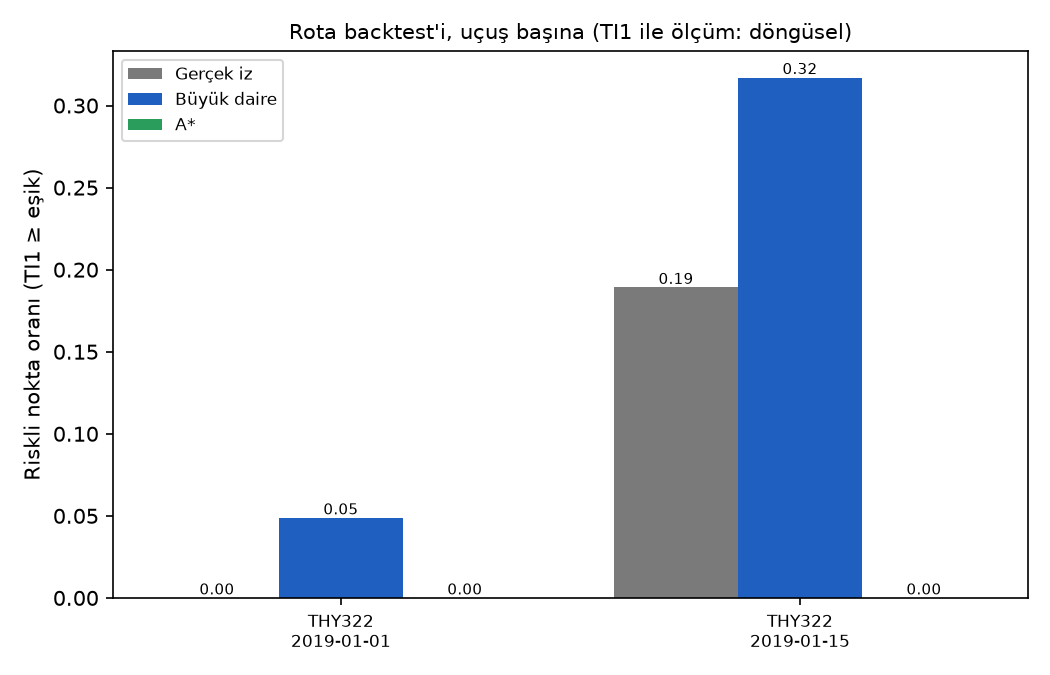
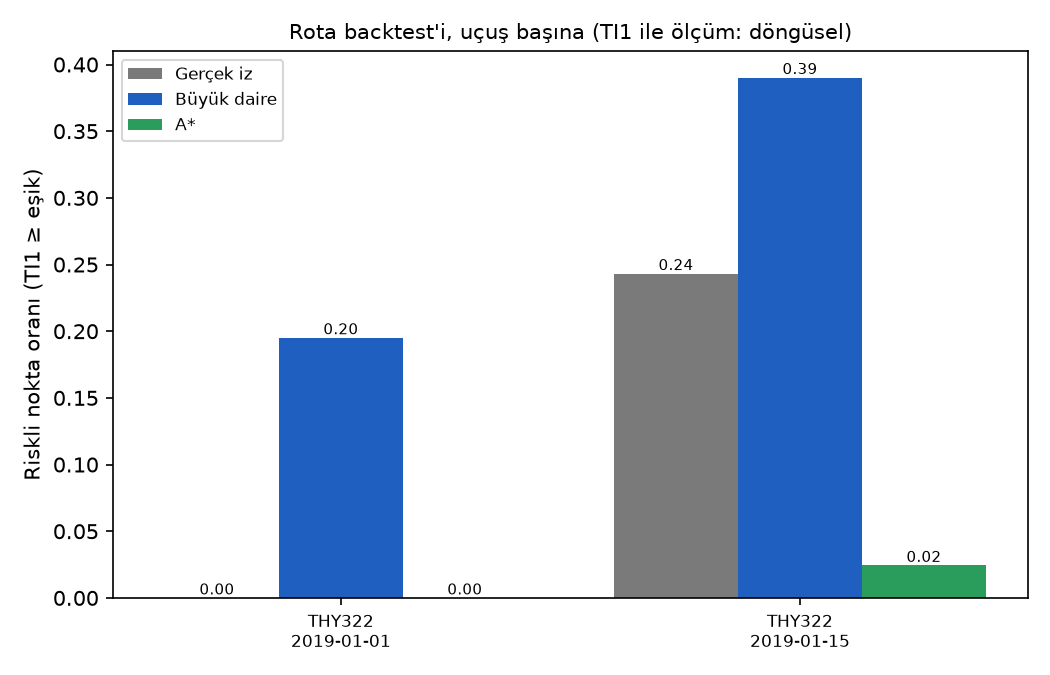
Ön paket 7e-7 eşiğiyle yeniden; belgeler, demo ekranları ve güvenilirlik notu güncel
- docs/sonuclar/2026-10-07: commit d7858e8, esik_taramasi.bir_se, backtest yeni eşikle
- SISTEM_KARTI/SONUCLAR: eşik kararı (1-SE), rota süresi (şarjda 0,03–0,45 sn) ve nedeni
- Sunum, poster, demo senaryosu, KATKILAR, SINIRLAMALAR sayıları paketten
- docs/sunum/ekranlar yeniden çekildi (FL350 → FL370, 214 NM → 16 NM)

diff --git a/docs/sunum/poster.html b/docs/sunum/poster.html
@@ -117,7 +117,7 @@ footer { border-top: 3px solid var(--murekkep); padding-top: 12px; font-size: 12
 
     <figure class="genis">
       <img src="ekranlar/02_simulasyon_turbulanstan_kacinma.jpg" alt="Rota simülasyonu: büyük daire ve türbülanstan kaçınan optimize rota, sonuç tablosu">
-      <figcaption><b>İstanbul → Doğu Anadolu, FL360, 15.01.2019 20:00 UTC (ERA5).</b> Büyük daire rotasında ~198 NM / 23 dk riskli bölüm (kırmızı); A* en çok 86 NM yanal sapmayla hepsinden kaçındı. Bedel: ~+6 dk, +%7,7 seyir yakıtı. Ekran ağsız demo paketinden.</figcaption>
+      <figcaption><b>İstanbul → Doğu Anadolu, FL350, 15.01.2019 20:00 UTC (ERA5).</b> Büyük daire rotasında ~214 NM / 26 dk riskli bölüm (kırmızı). Yanal sapmalar kısıtlı sahaya girdiği için sistem FL370'e tırmanmayı öneriyor; riskli bölüm ~16 NM / 2 dk'ya iniyor ve ekranda dürüstçe kalıyor. Bedel: %0,8 yakıt. Risk eşiği 7e-7 (veriden seçildi).</figcaption>
     </figure>
 
     <section>
@@ -150,10 +150,10 @@ footer { border-top: 3px solid var(--murekkep); padding-top: 12px; font-size: 12
     <section>
       <h2><span class="fl">05</span>Doğruluk</h2>
       <ul>
-        <li><strong>TI1 tek başına sınırlı:</strong> seyir irtifasındaki 7.815 PIREP'te ROC-AUC 0,680 [0,662–0,697]; altın test günlerinde config eşiğinde yakalama 0,448, yanlış alarm 0,201. PUE502 uçuşunda aktif TURB SIGMET'i TI1 yakalamadı. Güvenlik garantisi SIGMET sert kısıtından gelir.</li>
+        <li><strong>TI1 tek başına sınırlı:</strong> seyir irtifasındaki 7.815 PIREP'te ROC-AUC 0,680 [0,662–0,697]; altın test günlerinde veriden seçilen 7e-7 eşiğinde yakalama 0,502, yanlış alarm 0,252. PUE502 uçuşunda aktif TURB SIGMET'i TI1 yakalamadı. Güvenlik garantisi SIGMET sert kısıtından gelir.</li>
         <li><strong>ML (ön sonuç):</strong> altın test günlerinde model 0,681 [0,646–0,716], TI1'e göre +0,008 [−0,006; +0,022]: kapı geçilmedi. Birleşik EDR TI1'i küçük ama anlamlı farkla geçiyor (+0,014 [+0,007; +0,020]).</li>
         <li><strong>MADIS ölçülen EDR (6 gün, yalnız hafif):</strong> model 0,734, TI1 0,706; PR-AUC 0,092 / 0,091 (taban oran 0,030).</li>
-        <li><strong>Backtest (THY322, ERA5):</strong> riskli nokta oranı gerçek / büyük daire / A*: 15.01.2019'da 0,19 / 0,32 / 0,00. Ölçüm döngüseldir: A* TI1'i düşürür, başarı TI1 ile ölçülür.</li>
+        <li><strong>Backtest (THY322, ERA5):</strong> riskli nokta oranı gerçek / büyük daire / A*: 15.01.2019'da 0,24 / 0,39 / 0,02. Ölçüm döngüseldir: A* TI1'i düşürür, başarı TI1 ile ölçülür.</li>
       </ul>
       <p style="font-size:.85em; opacity:.75">Sayılar: docs/sonuclar/2026-10-07/SAYILAR.md (ön paket; 18 Ekim'de nihai). Aralıklar gün bazlı bootstrap %95 GA.</p>
     </section>

diff --git a/src/turbulans_radar/fizik/turbulans_indeksleri.py b/src/turbulans_radar/fizik/turbulans_indeksleri.py
@@ -137,7 +137,7 @@ def ti1_indeksi_hesapla(vws, deformasyon):
 TI1_GUVENILIRLIK_NOTU = (
     "TI1 fiziksel göstergesi, gerçek türbülans olaylarını TEK BAŞINA güvenilir şekilde ayırt ettiği bağımsız "
     "olarak KANITLANMAMIŞTIR (seyir irtifasındaki 7815 PIREP'te [80 gün] ROC-AUC 0.68, altın test "
-    "günlerinde 0.67 [%95 GA 0.64-0.70]; config eşiğinde altın günlerde yakalama 0.45, yanlış alarm 0.20; "
+    "günlerinde 0.67 [%95 GA 0.64-0.70]; risk eşiğinde altın günlerde yakalama 0.50, yanlış alarm 0.25; "
     "gerçek bir uçuşta [PUE502] aktif SIGMET'in işaret ettiği türbülansı TI1 hiç "
     "yakalamadı). Bugün güvenlik garantisi TI1'den değil SIGMET sert kısıtından "
     "gelir; TI1 yalnızca ek/yumuşak bir gösterge olarak değerlendirilmelidir. Kapsam yalnızca açık hava "

diff --git a/docs/SISTEM_KARTI.md b/docs/SISTEM_KARTI.md
@@ -35,12 +35,14 @@ trafikle varsayımsal minima karşılaştırması yalnızca gösterge olarak var
   `SIGMET_YAYIN_UFKU_SAAT`), uçuşun bu ufkun ötesindeki kısmında "aktif SIGMET
   yok" sonucu güvence değildir. Yanıt bu durumda `sigmet_ufuk_disi` uyarısı verir.
 - Kalkıştan önceki son saatlerde yeniden hesaplanmalıdır.
-- Hesaplama süresi, veri hazırken rota başına 0,08–1,36 sn'dir (sıcak medyan; A*
-  araması 0,31–0,40 sn). Ölçüm `turbulans-performans rota` ile yapıldı ve
-  `docs/sonuclar/2026-10-07/rota_performansi.md` dosyasında. Dizüstü pildeyken ölçüldü;
-  aynı gün daha önceki bir ölçüm 0,02–0,86 sn verdi. 2 Ekim ölçümü 0,02–0,27 sn idi
-  (tarihçe, `docs/hoca_geri_bildirim_analizi.md` §3). Artışın nedeni (yarım daire
-  kuralıyla çok seviyeli arama, FRA kontrolleri ya da güç durumu) ayrıca incelenmedi.
+- Hesaplama süresi, veri hazırken ve dizüstü şarjdayken rota başına 0,03–0,45 sn'dir
+  (sıcak medyan; A* aramalarının toplamı 0,09–0,14 sn). Ölçüm `turbulans-performans rota`
+  ile yapıldı: `docs/sonuclar/2026-10-07/rota_performansi.md`. Pilde süreler 2–3 kat
+  uzuyor. 2 Ekim ölçümü 0,02–0,27 sn idi (tarihçe). Fark tasarımdan gelir: Pareto
+  seçenekleri için A* her rotada 1 yerine 4 kez (bir yanal, üç ceza düzeyi) çalışır ve
+  yarım daire kuralı seviye adayları ekler. 8 Ekim'de rüzgâr okuması vektörleştirildi ve
+  A* çalıştırmaları aynı ızgaranın TI1'ini paylaşır oldu; sonuç birebir aynı, süre
+  yaklaşık %30 kısaldı.
 - Uçuş sırasında yeniden hesaplama mekanizması gösterim amaçlıdır.
 
 Sistem **sertifikalı değildir**. Herhangi bir EFB onayı yoktur ve
@@ -65,7 +67,10 @@ gerçek bir uçuşta tek bilgi kaynağı olarak kullanılamaz.
 
 - **Türbülans göstergeleri:** Ellrod TI1 (dikey rüzgar kayması × yatay
   deformasyon) ve bulk Richardson sayısı. Bir nokta, TI1 değeri
-  `TI1_ESIK_ORTA_SIDDETLI` (8e-7 s⁻²) eşiğini aşarsa "riskli" sayılır.
+  `TI1_ESIK_ORTA_SIDDETLI` (7e-7 s⁻²) eşiğini aşarsa "riskli" sayılır. Eşik 8 Ekim'de
+  veriden seçildi: altın test günleri dışındaki 64 günde Peirce'i en yüksek eşiğin
+  (5,3e-7) bir standart hatası içindeki en tutucu eşik (1-SE kuralı, 7,06e-7). Önceki
+  değer 8e-7 literatürden kaba bir başlangıçtı ve bu bandın dışındaydı.
 - **Rota adayları:**
   - A* ile yanal sapma: büyük daire etrafında 41 ara nokta; her bacağın büyük
     daire yönüne göre açısı en fazla 30°, toplam sapma en fazla 400 km, ızgara
@@ -149,7 +154,7 @@ gerçek bir uçuşta tek bilgi kaynağı olarak kullanılamaz.
   içi sayılır ve kenar değerini alır.
 - Seyir irtifasındaki 7.815 PIREP'te (80 gün) TI1'in tek başına ayırt
   ediciliği orta düzeydedir: ROC-AUC 0,680 [0,662–0,697]. Altın test günlerinde
-  0,673 [0,639–0,704]; `TI1_ESIK_ORTA_SIDDETLI`'de (8e-7) POD 0,448, POFD 0,201.
+  0,673 [0,639–0,704]; `TI1_ESIK_ORTA_SIDDETLI`'de (7e-7) POD 0,502, POFD 0,252.
   Eğitim günlerinde Peirce'i en büyüten eşik 5,3e-7'dir; altın günlerde POD 0,605,
   POFD 0,349. Sayılar `docs/sonuclar/2026-10-07/SAYILAR.md` ön paketinden alındı.
   Fizik düzeltmesinden önce 0,64'tü (5 Ekim, tarihçe); eski 0,44 değeri 300-400 feet'teki
@@ -298,8 +303,8 @@ gerçek bir uçuşta tek bilgi kaynağı olarak kullanılamaz.
   güvenilirlik ve backtest şekilleri (`turbulans-ml-degerlendirme --cikti`). Şu an
   7 Ekim ön paketi geçerlidir; 18 Ekim veri dondurmasında nihai paket üretilecek.
 - **Backtest (ERA5):** Veritabanındaki iki uçuşta riskli nokta oranı
-  (gerçek / büyük daire / A*): THY322 1 Ocak 2019 0,00 / 0,05 / 0,00; THY322 15 Ocak
-  2019 0,19 / 0,32 / 0,00 (`SAYILAR.md`, `backtest_ucus_basina.png`). Bu ölçüm
+  (gerçek / büyük daire / A*): THY322 1 Ocak 2019 0,00 / 0,20 / 0,00; THY322 15 Ocak
+  2019 0,24 / 0,39 / 0,02 (`SAYILAR.md`, `backtest_ucus_basina.png`; 7e-7 eşiğiyle). Bu ölçüm
   döngüseldir (A* TI1'i düşürür, başarı TI1 ile ölçülür); bu uçuşlar için bağımsız
   kanıt kaynağı yoktur. Önceki "üç uçuşta ortalama 0,28" ölçümü (THY72C, THY606 dahil)
   tarihçedir; o uçuşlar bugünkü veritabanında yok.

diff --git a/docs/sunum/DEMO_SENARYOSU.md b/docs/sunum/DEMO_SENARYOSU.md
@@ -64,8 +64,8 @@ en az bir kez söylenmelidir.
 | 1 | 0:30 | Terminal | `docker compose ps` (db, api, worker sağlıklı); Wi-Fi kapalı | "Sistem dizüstünde, internet bağlantısı yok. Veri, depoyla gelen gerçek bir uçuş ve gerçek ERA5 dilimi." |
 | 2 | 1:30 | 3B harita | Uçuş `THY322`, tarih `2019-01-15`, **Yükle**. Zaman kaydırıcısını baştan sona sürükleyin | "OpenSky'dan alınmış 1614 gerçek ADS-B noktası. Her nokta, uçağın o anki barometrik irtifasına karşılık gelen basınç seviyesinde ERA5 rüzgarıyla eşleşti ve Ellrod TI1 hesaplandı. Tırmanışın alt kısmı 150–350 hPa dışında kaldığı için 1614 noktanın 720'si hesaplandı, gerisi 'veri yok': sistem kapsamadığı yeri tahmin etmiyor. İzdeki ~1 saatlik boşlukta OpenSky'da kayıt yok; sistem bu boşluğu doldurmuyor." |
 | 3 | 0:30 | 3B harita, sol panel | Model paneli ve lejanttaki TI1 notunu gösterin | "TI1'in tek başına güvenilirliği kanıtlanmadı: seyir irtifasındaki 7.815 PIREP'te ROC-AUC 0,68. Bu not ekranda her zaman duruyor." |
-| 4 | 1:30 | Rota simülasyonu | 41.0, 29.0 → 40.5, 43.5; 35000 ft (doğu yönü, tek FL); 15.01.2019 20:00; A320; **Simüle Et** | "Büyük daire rotasında FL350'de yaklaşık 198 NM, 24 dakikalık riskli bölüm var; kırmızı çizilen kısım. Yanal sapmalar kısıtlı sahalara girdiği için elendi; sistem aynı yönün bir üst yasal seviyesine, FL370'e tırmanmayı öneriyor. Riskli nokta 12'den 1'e iniyor, bedeli yaklaşık %0,8 yakıt; kalan kısa bölüm ekranda dürüstçe duruyor. Seçim dispeçerin." (Ekran: `ekranlar/02_…`, yeniden çekilmeli) |
-| 5 | 1:00 | Rota simülasyonu | 38.35, 38.31 → 36.34, 43.13 (Malatya → Musul); **Simüle Et** | "Bu kez sert kısıt: normal rota örnek kısıtlı sahaya 11 noktada giriyor, önerilen rota hiç girmiyor (bedeli %6,2 seyir yakıtı). Bu bölge ERA5 diliminin dışında; ekranda türbülans riski '0' değil 'hesaplanmadı' yazıyor, çünkü veri yokken risk yok demek en tehlikeli hata olurdu. SIGMET de aynı sert kısıt mekanizmasıyla çalışıyor." (Ekran: `ekranlar/03_…`) |
+| 4 | 1:30 | Rota simülasyonu | 41.0, 29.0 → 40.5, 43.5; 35000 ft (doğu yönü, tek FL); 15.01.2019 20:00; A320; **Simüle Et** | "Büyük daire rotasında FL350'de yaklaşık 214 NM, 26 dakikalık riskli bölüm var; kırmızı çizilen kısım. Yanal sapmalar kısıtlı sahalara girdiği için elendi; sistem aynı yönün bir üst yasal seviyesine, FL370'e tırmanmayı öneriyor. Riskli nokta 13'ten 1'e iniyor, bedeli yaklaşık %0,8 yakıt; kalan kısa bölüm ekranda dürüstçe duruyor. Seçim dispeçerin." (Ekran: `ekranlar/02_…`, yeniden çekilmeli) |
+| 5 | 1:00 | Rota simülasyonu | 38.35, 38.31 → 36.34, 43.13 (Malatya → Musul); **Simüle Et** | "Bu kez sert kısıt: normal rota örnek kısıtlı sahaya 11 noktada giriyor, önerilen rota hiç girmiyor (bedeli %6,9 seyir yakıtı). Bu bölge ERA5 diliminin dışında; ekranda türbülans riski '0' değil 'hesaplanmadı' yazıyor, çünkü veri yokken risk yok demek en tehlikeli hata olurdu. SIGMET de aynı sert kısıt mekanizmasıyla çalışıyor." (Ekran: `ekranlar/03_…`) |
 | 6 | 0:30 | Slayt | ML ve doğrulama sonuçları slaytına geçin | "Model sonuçlarını canlı değil, ölçülmüş haliyle gösteriyorum. Sistem sertifikalı EDR üretmez; karar destek aracıdır." |
 
 Demo paketinde olmayanlar, slaytla gösterilir:

diff --git a/docs/rapor/SONUCLAR.md b/docs/rapor/SONUCLAR.md
@@ -62,7 +62,8 @@ olduğu gibi uygulandı. Taramanın tamamı JSON'da `esik_taramasi.tarama` altı
 |---|---|---|---|
 | Peirce eşiği 5,3e-7 (eğitim günlerinden) | 0,605 | 0,349 | 0,439 |
 | `TI1_ESIK_HAFIF` 4e-7 | 0,683 | 0,440 | 0,463 |
-| `TI1_ESIK_ORTA_SIDDETLI` 8e-7 (config, risk eşiği) | 0,448 | 0,201 | 0,369 |
+| 1-SE eşiği 7,06e-7 (eğitim günlerinden) | 0,498 | 0,247 | 0,393 |
+| `TI1_ESIK_ORTA_SIDDETLI` 7e-7 (config, risk eşiği; 8 Ekim'e kadar 8e-7) | 0,502 | 0,252 | 0,395 |
 
 Peirce eşiğinde altın günlerdeki Peirce 0,256 [0,188–0,313]. Ri için aynı yöntem Ri < 2,37
 verdi. Klasik 0,25 sınırı ERA5 çözünürlüğünde çok seyrek aşılır (bkz. §1.1).
@@ -80,8 +81,16 @@ Seviyeye göre (her seviyede eşik o seviyenin eğitim örnekleriyle seçildi):
 
 175–300 hPa'da seviye eşikleri genel eşiğe yakın (4,3–6,7e-7) ve CSI'yi belirgin
 iyileştirmiyor. 350 hPa'da eğitim örneği az ve seviye eşiği testte kötüleşiyor. Tek genel
-eşik yeterli görünüyor. Config eşiği (8e-7) Peirce eşiğinden yüksektir: yanlış alarm daha
-az, yakalama da daha azdır. Config'i değiştirmek ürün kararıdır; şimdilik değiştirilmedi.
+eşik yeterli görünüyor.
+
+**Risk eşiği kararı (8 Ekim).** Peirce'i en büyüten eşik ile daha yüksek eşikler arasındaki
+beceri farkı küçüktür; yüksek eşik daha az yanlış alarm verir. Gerçek olay oranı düşük
+olduğu için (MADIS'te %3) yanlış alarm pahalıdır. Bu yüzden model seçimindeki 1-SE
+kuralının eşik karşılığı uygulandı: eğitim günlerinde Peirce'i en yüksek değerin (0,284)
+gün bazlı bootstrap standart hatası (0,018) içinde kalan en yüksek eşik, 7,06e-7.
+`TI1_ESIK_ORTA_SIDDETLI` 8e-7'den 7e-7'ye indi. Eski 8e-7 bu bandın dışındaydı (eğitim
+Peirce'i 0,250). Kural yalnız eğitim günlerini kullanır; 18 Ekim paketinde aynı kuralla
+yeniden hesaplanır (`esik_taramasi.bir_se`).
 
 ### 0.3 Yalnız CAT alt kümesi (MET-07)
 
@@ -122,8 +131,8 @@ taban oranına göre kalibre olduğu için ölçülen sıklık olarak okunamaz (
 
 ### 0.5 Rota backtest'i
 
-Veritabanındaki iki uçuşta riskli nokta oranı (gerçek / büyük daire / A*): THY322 1 Ocak
-2019 0,00 / 0,05 / 0,00; THY322 15 Ocak 2019 0,19 / 0,32 / 0,00
+Veritabanındaki iki uçuşta riskli nokta oranı (gerçek / büyük daire / A*), 7e-7 eşiğiyle:
+THY322 1 Ocak 2019 0,00 / 0,20 / 0,00; THY322 15 Ocak 2019 0,24 / 0,39 / 0,02
 ([şekil](../sonuclar/2026-10-07/backtest_ucus_basina.png)). Ölçüm döngüseldir. PUE502
 (bağımsız kanıtlı tek uçuş) bu veritabanında yok; açıklaması `docs/SISTEM_KARTI.md` §6'da.
 
@@ -337,5 +346,5 @@ tarihteki veritabanı yedeğinden yukarıdaki komutlarla yeniden üretilir. Dond
 önce açık işler:
 
 - ~~Penceresiz 1.597 örneğin yeni fizikle yeniden indirilmesi~~ (7 Eki: penceresiz eşleşmiş örnek kalmadı)
-- ~~TI1 eşiklerinin yeni fiziğe göre yeniden değerlendirilmesi~~ (7 Eki: §0.2; config değişikliği ürün kararı, açık)
+- ~~TI1 eşiklerinin yeni fiziğe göre yeniden değerlendirilmesi~~ (8 Eki: §0.2, 1-SE kuralıyla 7e-7)
 - ~~MADIS'te en az 5 güne ulaşılması (GA için)~~ (7 Eki: 6 gün, §0.4)

diff --git a/docs/sonuclar/2026-10-07/SAYILAR.md b/docs/sonuclar/2026-10-07/SAYILAR.md
@@ -1,6 +1,6 @@
 # Sayılar (sonuç paketi)
 
-Kesme: 2026-10-07 · üretim: 2026-10-07T20:23:44+00:00 · commit `34c6f9378072840bc16fb7fa2ae7495fc8d30ad2`
+Kesme: 2026-10-07 · üretim: 2026-10-07T21:18:22+00:00 · commit `d7858e80a6bf49ce3752d4f0b9e3e98a2e5767ad`
 
 Bu dosya `turbulans-ml-degerlendirme --cikti` ile üretilir; elle düzenlenmez. Kaynak: `sonuc_paketi.json` (anahtar sütunu). GA: gün bazlı blok bootstrap %95. Çıktılar sertifikalı EDR değildir; sistem karar destek aracıdır.
 
@@ -31,9 +31,11 @@ Bu dosya `turbulans-ml-degerlendirme --cikti` ile üretilir; elle düzenlenmez. 
 | TI1 Peirce eşiği (eğitim günleri) | 5.30e-07 | `esik_taramasi.peirce_esigi` |
 | Peirce eşiğinde test POD / POFD / CSI | 0,605 / 0,349 / 0,439 | `esik_taramasi.test` |
 | Peirce eşiğinde test Peirce | 0,256 [0,188–0,313] | `esik_taramasi.test.peirce` |
+| TI1 1-SE eşiği (eğitim günleri; Peirce max − SE) | 7.06e-07 (Peirce max 0,284, SE 0,018) | `esik_taramasi.bir_se` |
+| 1-SE eşiğinde test POD / POFD / CSI | 0,498 / 0,247 / 0,393 | `esik_taramasi.bir_se_test` |
 | Ri Peirce eşiği (eğitim günleri; Ri altı riskli) | 2,37 | `esik_taramasi.ri_peirce_esigi.ri` |
 | TI1_ESIK_HAFIF (4e-07) test POD / POFD / CSI | 0,683 / 0,440 / 0,463 | `esik_taramasi.config_esikleri.TI1_ESIK_HAFIF.test` |
-| TI1_ESIK_ORTA_SIDDETLI (8e-07) test POD / POFD / CSI | 0,448 / 0,201 / 0,369 | `esik_taramasi.config_esikleri.TI1_ESIK_ORTA_SIDDETLI.test` |
+| TI1_ESIK_ORTA_SIDDETLI (7e-07) test POD / POFD / CSI | 0,502 / 0,252 / 0,395 | `esik_taramasi.config_esikleri.TI1_ESIK_ORTA_SIDDETLI.test` |
 | 175 hPa: eşik; test POD/POFD/CSI seviye eşiğiyle | genel eşikle | 5.7e-07; 0,596/0,286/0,419 | 0,635/0,312/0,434 (test n=129) | `esik_taramasi.seviyeye_gore[0]` |
 | 200 hPa: eşik; test POD/POFD/CSI seviye eşiğiyle | genel eşikle | 6.7e-07; 0,527/0,246/0,418 | 0,611/0,297/0,465 (test n=269) | `esik_taramasi.seviyeye_gore[1]` |
 | 225 hPa: eşik; test POD/POFD/CSI seviye eşiğiyle | genel eşikle | 5.5e-07; 0,619/0,403/0,403 | 0,626/0,413/0,404 (test n=361) | `esik_taramasi.seviyeye_gore[2]` |
@@ -66,5 +68,5 @@ Bu dosya `turbulans-ml-degerlendirme --cikti` ile üretilir; elle düzenlenmez. 
 | MADIS taban oran (hafif ve üstü) | 0,030 | `madis.taban_oran` |
 | MADIS model ortalama olasılık | 0,510 | `madis.model_olasilik.ortalama_olasilik` |
 | MADIS model Brier becerisi | -8,364 | `madis.model_olasilik.brier_becerisi` |
-| Backtest THY322 2019-01-01 riskli oran (gerçek / büyük daire / A*) | 0,00 / 0,05 / 0,00 | `backtest[0]` |
-| Backtest THY322 2019-01-15 riskli oran (gerçek / büyük daire / A*) | 0,19 / 0,32 / 0,00 | `backtest[1]` |
+| Backtest THY322 2019-01-01 riskli oran (gerçek / büyük daire / A*) | 0,00 / 0,20 / 0,00 | `backtest[0]` |
+| Backtest THY322 2019-01-15 riskli oran (gerçek / büyük daire / A*) | 0,24 / 0,39 / 0,02 | `backtest[1]` |

diff --git a/docs/sunum/SUNUM_AKISI.md b/docs/sunum/SUNUM_AKISI.md
@@ -100,16 +100,18 @@ Bu bölümdeki her sayı `docs/sonuclar/2026-10-07/SAYILAR.md` ön paketinden al
 dondurmasından sonra nihai paketle değiştirilir. Aralıklar gün bazlı blok bootstrap %95 GA'dır.
 
 - **TI1'in bağımsız becerisi sınırlı:** Seyir irtifasındaki 7.815 PIREP'te (80 gün) ROC-AUC
-  0,680 [0,662–0,697]. Altın test günlerinde 0,673 [0,639–0,704]. Config eşiğinde (8e-7)
-  yakalama 0,448, yanlış alarm 0,201. Gerçek bir uçuşta (PUE502, 26 Eylül, tarihçe) aktif
+  0,680 [0,662–0,697]. Altın test günlerinde 0,673 [0,639–0,704]. Risk eşiğinde (7e-7)
+  yakalama 0,502, yanlış alarm 0,252. Gerçek bir uçuşta (PUE502, 26 Eylül, tarihçe) aktif
   TURB SIGMET'in işaret ettiği türbülansı TI1 yakalamadı. Bu yüzden güvenlik garantisi
   SIGMET sert kısıtından gelir; TI1 yumuşak göstergedir.
-- **Eşik veriden seçildi:** Eğitim günlerinde Peirce'i en büyüten TI1 eşiği 5,3e-7'dir.
-  Altın günlerde POD 0,605, POFD 0,349, CSI 0,439. Config eşiği henüz değiştirilmedi.
+- **Eşik veriden seçildi:** Eğitim günlerinde Peirce'i en büyüten TI1 eşiği 5,3e-7
+  (altın günlerde POD 0,605, POFD 0,349). Risk eşiği, bunun bir standart hatası içindeki
+  en tutucu eşik oldu: 7e-7 (1-SE kuralı; yanlış alarm daha az). Eski 8e-7 bu bandın
+  dışındaydı.
 - **Yalnız CAT:** CB/TS/TCU/MTN WAVE/LLWS geçen raporlar dışlanınca altın günlerde TI1
   0,669 [0,632–0,707]; sonuç değişmiyor.
 - **Backtest (ERA5, THY322):** Riskli nokta oranı (gerçek / büyük daire / A*): 1 Ocak 2019
-  0,00 / 0,05 / 0,00; 15 Ocak 2019 0,19 / 0,32 / 0,00. Ölçüm döngüseldir (A* TI1'i
+  0,00 / 0,20 / 0,00; 15 Ocak 2019 0,24 / 0,39 / 0,02. Ölçüm döngüseldir (A* TI1'i
   düşürür, başarı TI1 ile ölçülür); bunu açıkça söyleyin.
 - **ML (ön sonuç, olumsuz):** Protokol modeli (Lojistik Regresyon, 1-SE) altın test
   günlerinde (16 gün, 1.554 PIREP) ROC-AUC 0,681 [0,646–0,716]. TI1'e göre fark +0,008

diff --git a/docs/sonuclar/2026-10-07/rota_performansi.md b/docs/sonuclar/2026-10-07/rota_performansi.md
@@ -1,11 +1,11 @@
-### Rota kararı (11 tekrar; sıcak medyan 0.08–1.36 sn)
+### Rota kararı (11 tekrar; sıcak medyan 0.03–0.45 sn)
 
 | Senaryo | Veri | Mesafe (km) | Strateji | Soğuk (ms) | Sıcak medyan (maks) | A* medyan (ms) |
 |---|---|---|---|---|---|---|
-| S1 İstanbul→Antalya FL290 | era5_gercek | 482 | yanal | 2598.2 | 1265.1 (1382.5) | 342.6 |
-| S2 İzmir→Van FL350 | era5_gercek | 1418 | yok | 220.8 | 195.1 (247.0) | çağrılmadı |
-| S3 İstanbul→Doğu Anadolu FL350 | era5_gercek | 1162 | irtifa_yukari | 1376.8 | 1262.3 (1314.0) | 313.1 |
-| S4 Malatya→Musul FL370 + örnek kısıtlı sahalar | era5_gercek | 481 | yanal | 1347.3 | 1358.2 (1417.0) | 397.2 |
-| S5 İstanbul→New York FL340 (kapsam dışı) | era5_kapsam_disi | 8066 | yok | 157.9 | 77.1 (119.9) | çağrılmadı |
-| S6 İzmir→Van FL350 + sentetik TURB SIGMET | era5_gercek | 1418 | yanal | 1282.8 | 1283.3 (1331.1) | 367.6 |
+| S1 İstanbul→Antalya FL290 | era5_gercek | 482 | yanal | 1069.8 | 398.4 (429.3) | 101.4 |
+| S2 İzmir→Van FL350 | era5_gercek | 1418 | yok | 55.9 | 55.4 (75.2) | çağrılmadı |
+| S3 İstanbul→Doğu Anadolu FL350 | era5_gercek | 1162 | irtifa_yukari | 467.2 | 382.2 (401.2) | 88.1 |
+| S4 Malatya→Musul FL370 + örnek kısıtlı sahalar | era5_gercek | 481 | yanal | 457.7 | 446.0 (506.3) | 135.1 |
+| S5 İstanbul→New York FL340 (kapsam dışı) | era5_kapsam_disi | 8066 | yok | 21.8 | 25.5 (46.8) | çağrılmadı |
+| S6 İzmir→Van FL350 + sentetik TURB SIGMET | era5_gercek | 1418 | yanal | 414.7 | 391.6 (422.8) | 108.1 |
 

diff --git a/docs/rapor/SINIRLAMALAR_VE_DERSLER.md b/docs/rapor/SINIRLAMALAR_VE_DERSLER.md
@@ -29,10 +29,12 @@ pozitif oranı %52, aynı yerlerdeki MADIS ölçümlerinde hafif ve üstü %3. M
 olasılıkları bu yüzden mutlak sıklık değildir. MADIS ölçümleri yalnız 4 gündür, kalite
 kontrolsüzdür (QC "Z") ve PIREP pencerelerinin içinden gelir; sonuçlar ön sonuçtur.
 
-**İstatistiksel sınırlar.** Birleşik EDR'nin ve modelin TI1'e üstünlüğü anlamlı ama
-küçüktür (holdout'ta +0,012 ve +0,023 ROC-AUC). Holdout 13 gündür; güven aralıkları
-geniştir. Sanal PIREP 16 PIREP'le ölçüldü ve eşikleri kalibre edilmedi. Sabit TI1
-eşikleri (4e-7, 8e-7) eski fizik hesabına göre konmuştu.
+**İstatistiksel sınırlar.** Birleşik EDR'nin TI1'e üstünlüğü anlamlı ama küçüktür
+(altın test günlerinde +0,014 ROC-AUC); model TI1'i geçemedi (+0,008, GA 0'ı içeriyor;
+`docs/sonuclar/2026-10-07/SAYILAR.md`). Altın test 16 gündür; güven aralıkları geniştir.
+Sanal PIREP 16 PIREP'le ölçüldü ve eşikleri kalibre edilmedi. TI1 risk eşiği 8 Ekim'de
+eğitim günlerinden 1-SE kuralıyla 7e-7 seçildi; hafif eşiği (4e-7) hâlâ kaba bir
+başlangıç değeridir.
 
 **Çözünürlük.** ERA5'in 0,25° ızgarası ve 25 hPa'lık katmanı, uçağın algıladığı
 ölçeği (yaklaşık 100 m – 1 km) çözemez; ince kararsız katmanlar (Ri < 0,25)

diff --git a/docs/ISLEM_GUNLUGU.md b/docs/ISLEM_GUNLUGU.md
@@ -2,6 +2,14 @@
 
 Her oturumun kısa özeti, en yeni üstte. Telefondan (GitHub mobil) okunmak için kısa tutulur.
 
+## 2026-10-08 (dal `claude/esik-ve-rota-hizi`, Madde 8 açık kararları)
+
+- ✅ TI1 risk eşiği 8e-7 → 7e-7: eğitim günlerinde Peirce max'ın 1 SE'si içindeki en tutucu eşik (1-SE kuralı).
+- ✅ Altın günlerde 7e-7: POD 0,50, POFD 0,25 (8e-7: 0,45 / 0,20). Backtest yeniden: 15 Oca A* 0,02 (tam sıfır değil).
+- ✅ Rota yavaşlığının nedeni: Pareto için 4 A* + seviye adayları (tasarım). Rüzgâr tek okuma + TI1 paylaşımı: %30 hızlı.
+- ✅ Şarjda rota 0,03–0,45 sn (dün pilde 1,3 sn). Sonuç birebir aynı (eşdeğerlik testleri). Tam test 908 geçti, 4 dk.
+- ✅ Docker api/worker yeni kodla derlendi; demo ekranları yeniden çekildi; ön paket yeniden üretildi.
+
 ## 2026-10-07 (dal `claude/sonuc-paketi-dondurma`, Madde 8)
 
 - ✅ `turbulans-ml-degerlendirme --kesme --cikti`: commit hash'li JSON + SAYILAR.md + 3 PNG; ön paket `docs/sonuclar/2026-10-07/`.

diff --git a/docs/rapor/KATKILAR.md b/docs/rapor/KATKILAR.md
@@ -65,8 +65,8 @@ durumuna çevrilir (hedef kapsama %90); gerçekleşen kapsama zamansal holdout't
 
 **K6. Fizik göstergesinin sınırının ölçülmesi ve ürüne yansıtılması.**
 TI1'in bağımsız becerisi seyir PIREP'lerinde ölçüldü: 7.815 PIREP, ROC-AUC 0,680
-[0,662–0,697]; altın test günlerinde 0,673, config eşiğinde yakalama 0,448, yanlış alarm
-0,201; MADIS ölçülen EDR'de 0,706 (`docs/sonuclar/2026-10-07/SAYILAR.md`). Gerçek bir
+[0,662–0,697]; altın test günlerinde 0,673, veriden seçilen eşikte (7e-7) yakalama 0,502,
+yanlış alarm 0,252; MADIS ölçülen EDR'de 0,706 (`docs/sonuclar/2026-10-07/SAYILAR.md`). Gerçek bir
 uçuşta (PUE502) aktif TURB SIGMET'i
 yakalamadığı gösterildi. Sonuç, her rota yanıtında ve arayüzde gösterilen bir
 güvenilirlik notuna ve güvenliğin SIGMET sert kısıtına dayandırılmasına dönüştü.

diff --git a/docs/hoca_geri_bildirim_analizi.md b/docs/hoca_geri_bildirim_analizi.md
@@ -399,9 +399,9 @@ için darboğaz değildir. Belirleyici olan veri tazeliği ve ilk veri indirmesi
 (saniyeler–dakika).
 
 **Tekrar üretim:** Bu tablo tarihçedir (2 Ekim). Ölçüm artık
-`turbulans-performans rota` alt komutuyla tekrarlanır (Madde 8). 7 Ekim ölçümü
-sıcak medyan 0,08–1,36 sn verdi (dizüstü pildeyken; aynı gün daha önce 0,02–0,86 sn),
-A* araması 0,31–0,40 sn: `docs/sonuclar/2026-10-07/rota_performansi.md`.
+`turbulans-performans rota` alt komutuyla tekrarlanır (Madde 8). 8 Ekim ölçümü
+(şarjda) sıcak medyan 0,03–0,45 sn: `docs/sonuclar/2026-10-07/rota_performansi.md`.
+Artış Pareto seçeneklerinin dört A* çalıştırmasından ve seviye adaylarından gelir.
 
 ---
 
